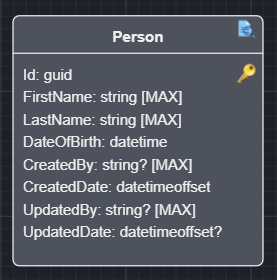
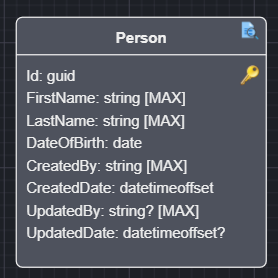
CreatedBy should not be optional

Changed region(s): [[0.0, 0.0, 0.9819, 0.9784]]

diff --git a/Modules/Intent.Modules.EntityFrameworkCore.BasicAuditing/Templates/AuditableInterface/AuditableInterfaceTemplatePartial.cs b/Modules/Intent.Modules.EntityFrameworkCore.BasicAuditing/Templates/AuditableInterface/AuditableInterfaceTemplatePartial.cs
@@ -28,7 +28,7 @@ namespace Intent.Modules.EntityFrameworkCore.BasicAuditing.Templates.AuditableIn
                 {
                     var nullable = outputTarget.GetProject().IsNullableAwareContext();
                     var questionMark = nullable ? "?" : string.Empty;
-                    inter.AddProperty($"string{questionMark}", "CreatedBy");
+                    inter.AddProperty($"string", "CreatedBy");
                     inter.AddProperty("DateTimeOffset", "CreatedDate");
                     inter.AddProperty($"string{questionMark}", "UpdatedBy");
                     inter.AddProperty($"DateTimeOffset{questionMark}", "UpdatedDate");

diff --git a/Tests/EntityFrameworkCore.CosmosDb.TestApplication/EntityFrameworkCore.CosmosDb.TestApplication.Domain/Common/Interfaces/IAuditable.cs b/Tests/EntityFrameworkCore.CosmosDb.TestApplication/EntityFrameworkCore.CosmosDb.TestApplication.Domain/Common/Interfaces/IAuditable.cs
@@ -8,7 +8,7 @@ namespace EntityFrameworkCore.CosmosDb.TestApplication.Domain.Common.Interfaces
 {
     public interface IAuditable
     {
-        string? CreatedBy { get; set; }
+        string CreatedBy { get; set; }
         DateTimeOffset CreatedDate { get; set; }
         string? UpdatedBy { get; set; }
         DateTimeOffset? UpdatedDate { get; set; }

diff --git a/Tests/EntityFrameworkCore.SqlServer.TestApplication/EntityFrameworkCore.SqlServer.TestApplication.Domain/Common/Interfaces/IAuditable.cs b/Tests/EntityFrameworkCore.SqlServer.TestApplication/EntityFrameworkCore.SqlServer.TestApplication.Domain/Common/Interfaces/IAuditable.cs
@@ -8,7 +8,7 @@ namespace EntityFrameworkCore.SqlServer.TestApplication.Domain.Common.Interfaces
 
 public interface IAuditable
 {
-    string? CreatedBy { get; set; }
+    string CreatedBy { get; set; }
     DateTimeOffset CreatedDate { get; set; }
     string? UpdatedBy { get; set; }
     DateTimeOffset? UpdatedDate { get; set; }

diff --git a/Modules/Intent.Modules.EntityFrameworkCore.BasicAuditing/README.md b/Modules/Intent.Modules.EntityFrameworkCore.BasicAuditing/README.md
@@ -10,11 +10,7 @@ Select an Entity in the Domain Designer.
 
 ![Domain Entity without Basic Auditing](docs/images/person-without-auditing.png)
 
-Right click and select `Apply Stereotype` (or press F3).
-
-![Auditing Stereotype](docs/images/basic-auditing-stereotype.png)
-
-Select the `Basic Auditing` stereotype.
+Right click and select `Toggle Basic Auditing`.
 
 ![Domain Entity with Basic Auditing](docs/images/person-with-auditing.png)
 
@@ -34,7 +30,7 @@ This introduces a `IAuditible` interface in your `Domain`project which gets adde
 ```csharp
 public interface IAuditable
 {
-    string? CreatedBy { get; set; }
+    string CreatedBy { get; set; }
     DateTimeOffset CreatedDate { get; set; }
     string? UpdatedBy { get; set; }
     DateTimeOffset? UpdatedDate { get; set; }
@@ -54,7 +50,7 @@ public class Person : IHasDomainEvent, IAuditable
     
     public DateTime DateOfBirth { get; set; }
 
-    public string? CreatedBy { get; set; }
+    public string CreatedBy { get; set; }
 
     public DateTimeOffset CreatedDate { get; set; }
 
